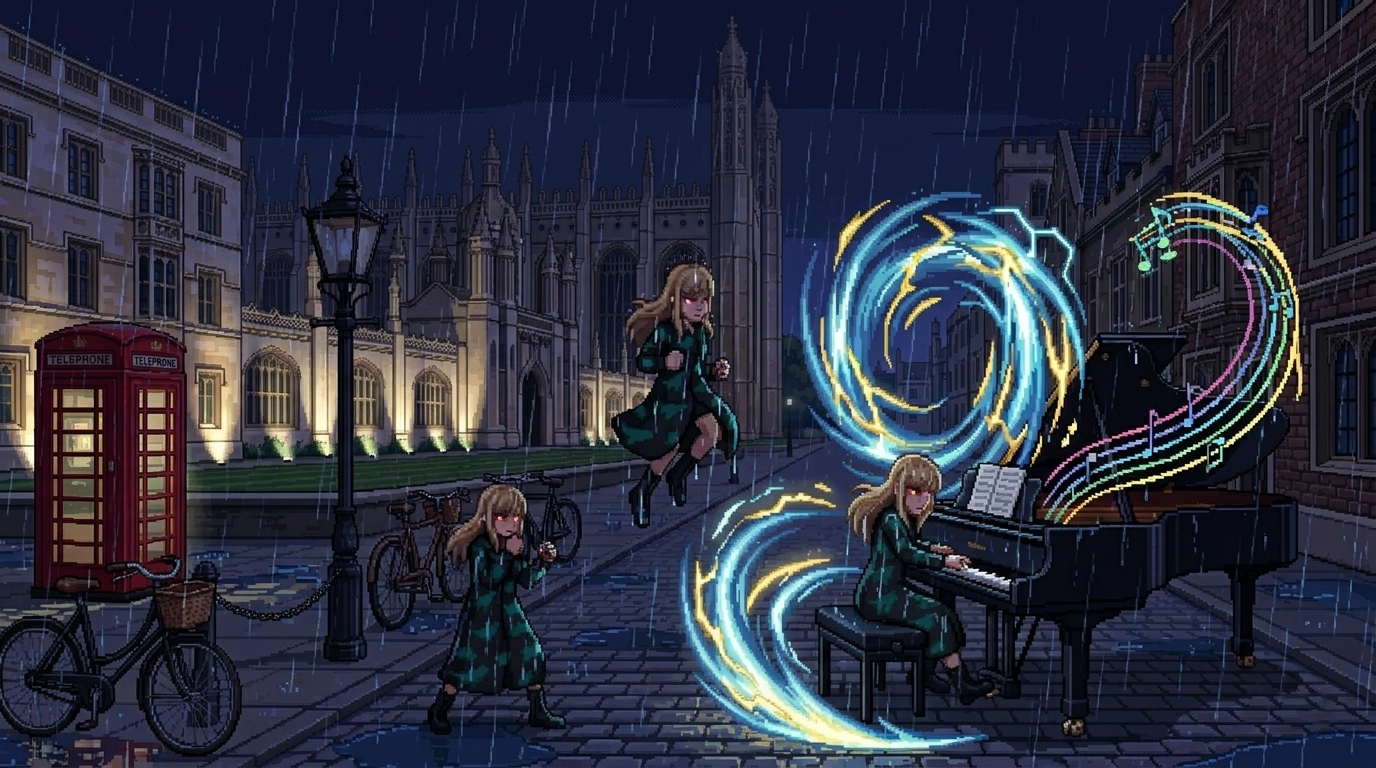
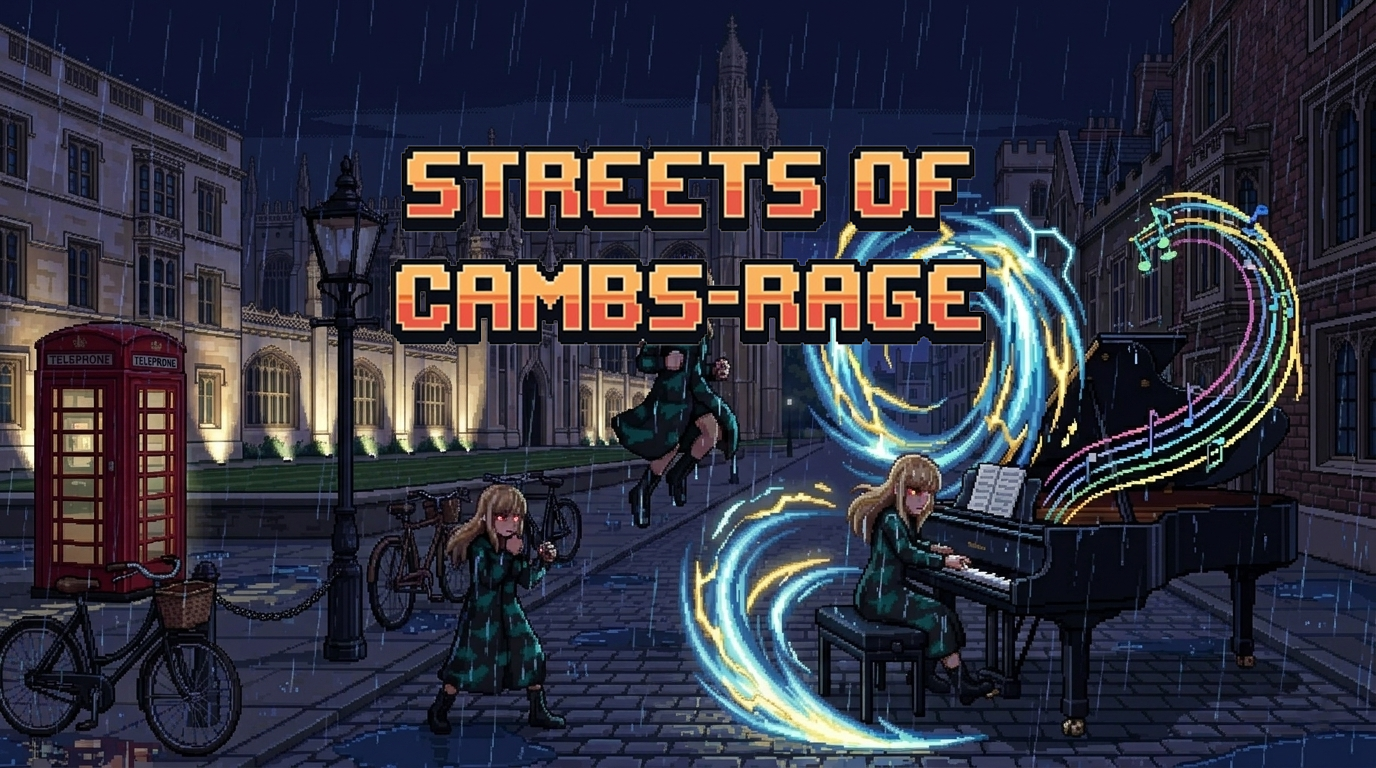
Streets of Cambs Rage: rename route, char select name-in-card, drop descriptions, font size tweaks, repush splash+title

Changed region(s): [[0.2812, 0.1875, 0.7188, 0.4688]]

diff --git a/frontend/src/game/screens/CharacterSelectScreen.jsx b/frontend/src/game/screens/CharacterSelectScreen.jsx
@@ -14,18 +14,8 @@ import katieSelectUrl from '../../assets/character_selections/katie_select.png';
 import davidSelectUrl from '../../assets/character_selections/david_select.png';
 
 const CHARACTERS = [
-  {
-    id:       'katie',
-    name:     'KATIE',
-    subtitle: 'The Dino Duchess',
-    color:    '#c060ff',
-  },
-  {
-    id:       'david',
-    name:     'DAVID',
-    subtitle: 'The Guitar Geezer',
-    color:    '#40c8ff',
-  },
+  { id: 'katie', name: 'KATIE', color: '#c060ff' },
+  { id: 'david', name: 'DAVID', color: '#40c8ff' },
 ];
 
 export default function CharacterSelectScreen({ onSelect, onBack }) {
@@ -60,77 +50,65 @@ export default function CharacterSelectScreen({ onSelect, onBack }) {
       </h2>
 
       {/* Character cards */}
-      <div className="flex gap-16 items-end">
+      <div className="flex gap-16">
         {CHARACTERS.map((char, i) => {
           const selected = cursor === i;
           return (
             <div
               key={char.id}
-              onClick={() => { setCursor(i); }}
+              onClick={() => setCursor(i)}
               onDoubleClick={() => { setCursor(i); setConfirm(true); setTimeout(() => onSelect(char.id), 400); }}
-              className="flex flex-col items-center gap-3 cursor-pointer select-none"
-              style={{ opacity: confirm && !selected ? 0.3 : 1, transition: 'opacity 0.3s' }}
+              className="relative overflow-hidden cursor-pointer select-none"
+              style={{
+                width:      200,
+                height:     240,
+                border:     `2px solid ${selected ? char.color : '#ffffff22'}`,
+                boxShadow:  selected ? `0 0 24px ${char.color}88, inset 0 0 12px ${char.color}22` : 'none',
+                background: selected ? `${char.color}0d` : '#0d0d0d',
+                opacity:    confirm && !selected ? 0.3 : 1,
+                transition: 'all 0.15s',
+              }}
             >
-              {/* Portrait frame */}
-              <div
-                className="relative flex items-end justify-center"
+              {/* Portrait image */}
+              <img
+                src={char.id === 'katie' ? katieSelectUrl : davidSelectUrl}
+                alt={char.name}
                 style={{
-                  width:     200,
-                  height:    200,
-                  border:    `2px solid ${selected ? char.color : '#ffffff22'}`,
-                  boxShadow: selected ? `0 0 24px ${char.color}88, inset 0 0 12px ${char.color}22` : 'none',
-                  background: selected ? `${char.color}11` : 'transparent',
-                  transition: 'all 0.15s',
+                  width:          '100%',
+                  height:         '100%',
+                  imageRendering: 'pixelated',
+                  objectFit:      'cover',
+                  objectPosition: 'center',
                 }}
+              />
+
+              {/* Name bar — inside bottom of card */}
+              <div
+                className="absolute bottom-0 left-0 right-0 px-2 py-1.5 text-center"
+                style={{ background: 'rgba(0,0,0,0.82)' }}
               >
-                {char.id === 'katie' || char.id === 'david' ? (
-                  <img
-                    src={char.id === 'katie' ? katieSelectUrl : davidSelectUrl}
-                    alt={char.name}
-                    style={{
-                      width:           '100%',
-                      height:          '100%',
-                      imageRendering:  'pixelated',
-                      objectFit:       'cover',
-                      objectPosition:  'center',
-                    }}
-                  />
-                ) : (
-                  /* David placeholder square */
-                  <div
-                    style={{
-                      width:      80,
-                      height:     80,
-                      background: char.color,
-                      marginBottom: 16,
-                      boxShadow:  `0 0 20px ${char.color}`,
-                    }}
-                  />
-                )}
-
-                {/* Selection arrow */}
-                {selected && (
-                  <div
-                    className="absolute -bottom-6 text-lg"
-                    style={{ color: char.color, textShadow: `0 0 8px ${char.color}` }}
-                  >
-                    ▲
-                  </div>
-                )}
-              </div>
-
-              {/* Name */}
-              <div className="flex flex-col items-center gap-2 mt-6">
                 <span
                   className="uppercase"
-                  style={{ fontSize: '0.65rem', letterSpacing: '0.2em', color: selected ? char.color : '#ffffff66', textShadow: selected ? `0 0 10px ${char.color}` : 'none' }}
+                  style={{
+                    fontSize:   '0.5rem',
+                    letterSpacing: '0.2em',
+                    color:      selected ? char.color : '#ffffffcc',
+                    textShadow: selected ? `0 0 8px ${char.color}` : 'none',
+                  }}
                 >
                   {char.name}
                 </span>
-                <span style={{ fontSize: '0.45rem', letterSpacing: '0.1em', color: '#ffffff33' }}>
-                  {char.subtitle}
-                </span>
               </div>
+
+              {/* Selected indicator */}
+              {selected && (
+                <div
+                  className="absolute top-1.5 right-1.5"
+                  style={{ fontSize: '0.6rem', color: char.color, textShadow: `0 0 6px ${char.color}` }}
+                >
+                  ▶
+                </div>
+              )}
             </div>
           );
         })}

diff --git a/frontend/src/main.jsx b/frontend/src/main.jsx
@@ -88,7 +88,7 @@ createRoot(document.getElementById('root')).render(
               <Route path="games/shut-the-box" element={<ShutTheBoxPage />} />
               <Route path="games/shut-the-box-15" element={<ShutTheBox15Page />} />
               <Route path="games/ducky" element={<DuckyDerbyPage />} />
-              <Route path="games/beat-me-up" element={<GameContainer />} />
+              <Route path="games/streets-of-cambs-rage" element={<GameContainer />} />
               <Route path="account/orders" element={<OrdersListPage />} />
               <Route path="account/points" element={<PointsHistoryPage />} />
               <Route path="account/rewards" element={<RewardsPage />} />

diff --git a/frontend/src/game/screens/CostumeSelectScreen.jsx b/frontend/src/game/screens/CostumeSelectScreen.jsx
@@ -130,7 +130,7 @@ export default function CostumeSelectScreen({ character, onSelect, onBack }) {
               >
                 <span
                   className="uppercase block text-center"
-                  style={{ fontSize: '0.45rem', letterSpacing: '0.1em' }}
+                  style={{ fontSize: '0.38rem', letterSpacing: '0.1em' }}
                   style={{
                     color:      costume.available
                       ? (selected ? accent : '#ffffffcc')

diff --git a/frontend/src/game/screens/LevelSelectScreen.jsx b/frontend/src/game/screens/LevelSelectScreen.jsx
@@ -151,7 +151,7 @@ export default function LevelSelectScreen({ onSelect, onBack }) {
               >
                 <span
                   className="uppercase"
-                  style={{ fontSize: '0.45rem', letterSpacing: '0.08em' }}
+                  style={{ fontSize: '0.38rem', letterSpacing: '0.08em' }}
                   style={{
                     color:      lvl.available
                       ? (selected ? accent : '#ffffffcc')
